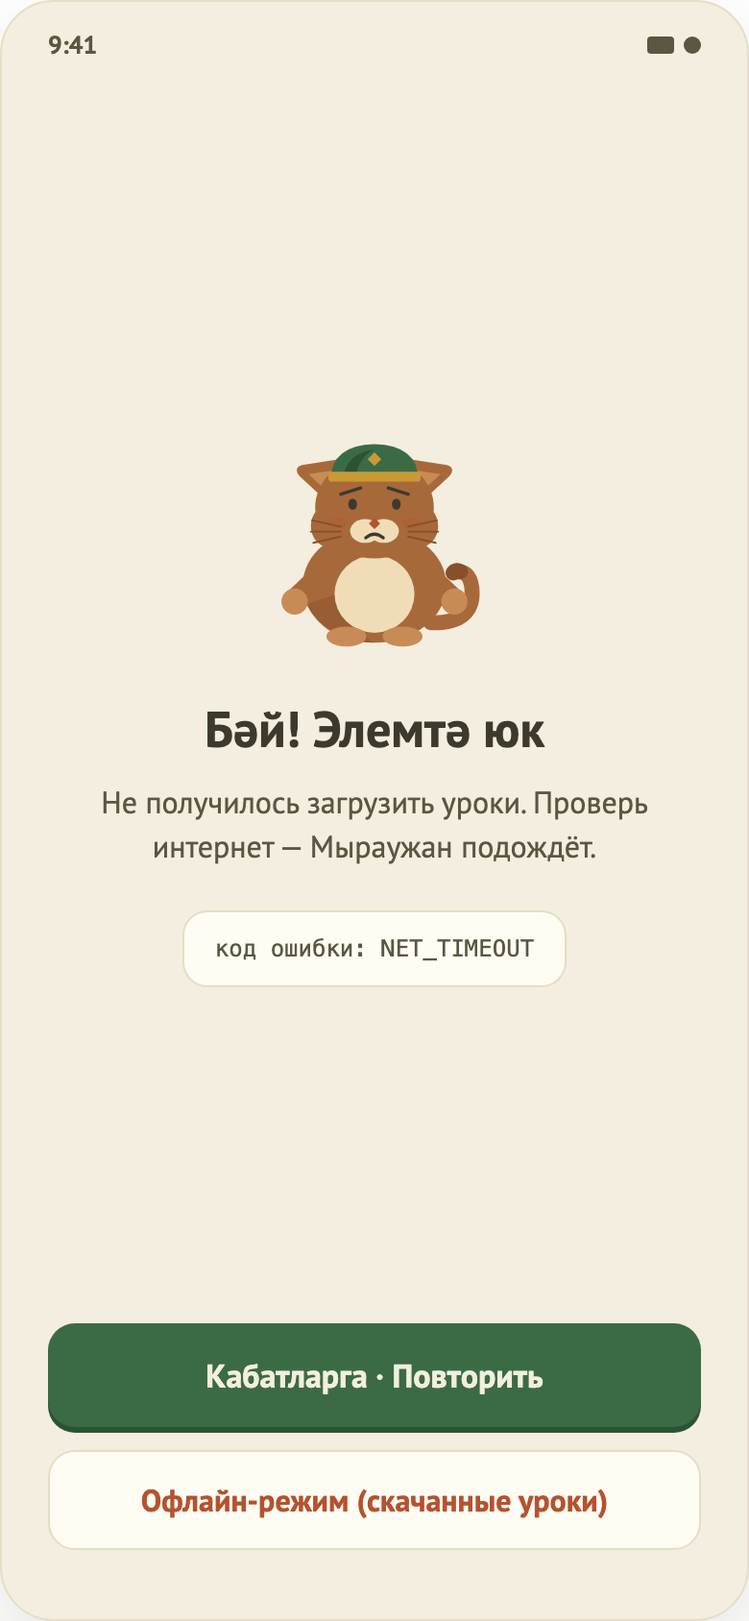
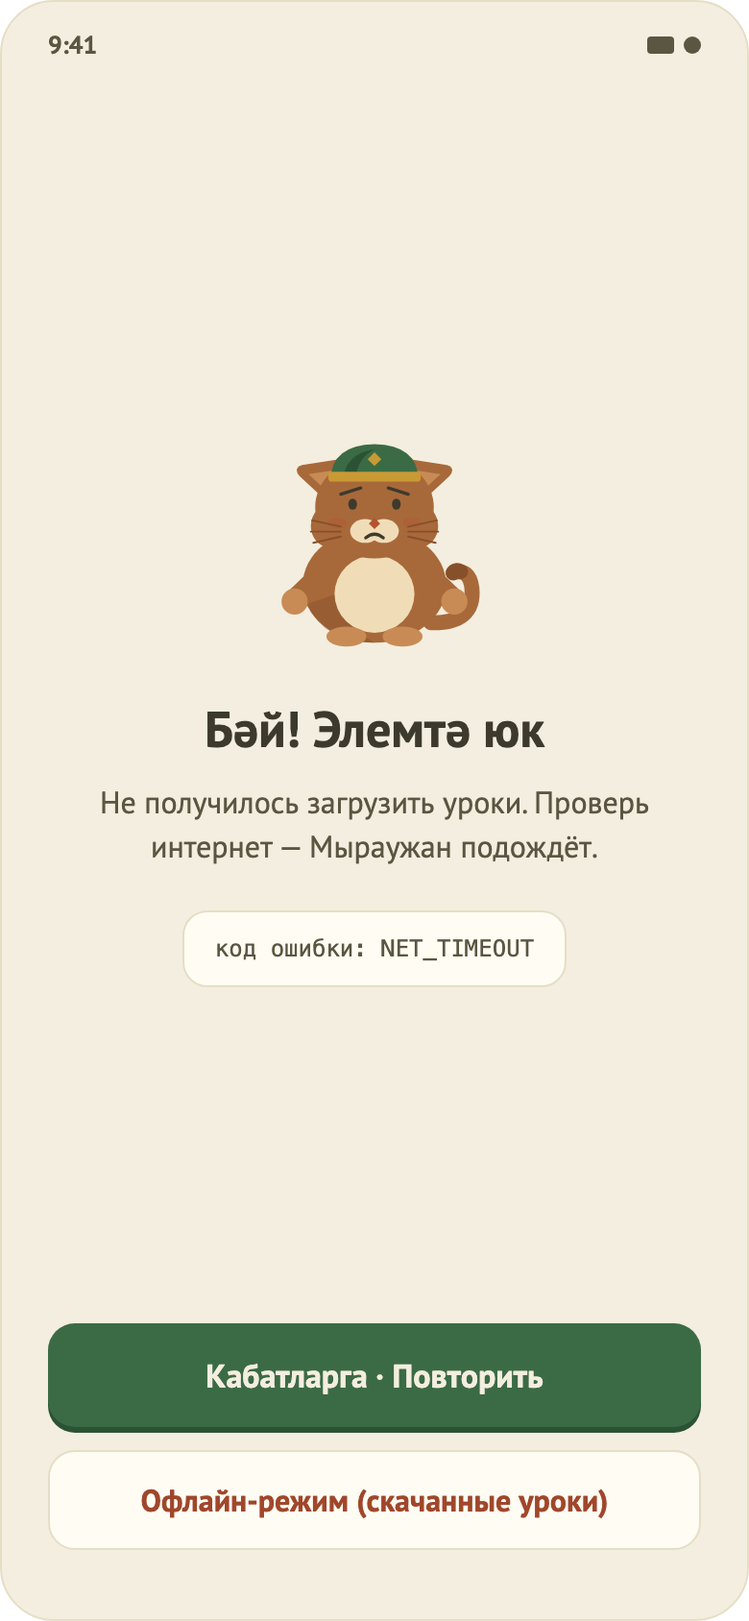
Fix text contrast in design: accentText, darker goldText, readable locked module

Changed region(s): [[0.1538, 0.4929, 0.3692, 0.5545], [0.5846, 0.4929, 0.8, 0.5237], [0.8308, 0.4929, 0.8615, 0.5237]]

diff --git a/design/Tatar App Screens.dc.html b/design/Tatar App Screens.dc.html
@@ -13,7 +13,7 @@
 <link href="https://fonts.googleapis.com/css2?family=PT+Sans:ital,wght@0,400;0,700;1,400&amp;display=swap" rel="stylesheet">
 <style>
   body { margin:0; background:#E7E0CC; }
-  a { color:#3B6B45; } a:hover { color:#B5522F; }
+  a { color:#3B6B45; } a:hover { color:#A0472B; }
   @keyframes tamyrPulse { 0%,100% { opacity:.35; transform:rotate(45deg) scale(.85); } 50% { opacity:1; transform:rotate(45deg) scale(1.1); } }
 </style>
 </helmet>
@@ -87,7 +87,7 @@
         </div>
         <div style="padding:0 24px 36px;display:flex;flex-direction:column;gap:12px">
           <div style="height:54px;border-radius:14px;background:#3B6B45;color:#F3EEDF;display:flex;align-items:center;justify-content:center;font-size:17px;font-weight:700;box-shadow:0 3px 0 #2C5234">Кабатларга · Повторить</div>
-          <div style="height:50px;border-radius:14px;background:#FFFCF3;border:1px solid #E5DEC6;display:flex;align-items:center;justify-content:center;font-size:16px;font-weight:700;color:#B5522F">Офлайн-режим (скачанные уроки)</div>
+          <div style="height:50px;border-radius:14px;background:#FFFCF3;border:1px solid #E5DEC6;display:flex;align-items:center;justify-content:center;font-size:16px;font-weight:700;color:#A0472B">Офлайн-режим (скачанные уроки)</div>
         </div>
       </div>
     </div>
@@ -117,7 +117,7 @@
             </div>
             <div style="display:flex;align-items:center;gap:8px;font-size:14px;color:#5A5642">
               <div style="width:14px;height:14px;border-radius:50%;border:2px solid #B5522F;box-sizing:border-box;display:flex;align-items:center;justify-content:center"><div style="width:0;height:0;border-left:5px solid #B5522F;border-top:3px solid transparent;border-bottom:3px solid transparent;margin-left:1px"></div></div>
-              <div style="font-weight:700;color:#B5522F">Помедленнее</div>
+              <div style="font-weight:700;color:#A0472B">Помедленнее</div>
             </div>
           </div>
         </div>
@@ -143,7 +143,7 @@
           
         </div>
         <div style="padding:24px 24px 0;display:flex;flex-direction:column;gap:16px">
-          <div style="align-self:flex-start;background:#F4DFD4;color:#B5522F;font-size:12px;font-weight:700;text-transform:uppercase;letter-spacing:.06em;border-radius:8px;padding:5px 10px">Җөмлә төзе · сборка</div>
+          <div style="align-self:flex-start;background:#F4DFD4;color:#A0472B;font-size:12px;font-weight:700;text-transform:uppercase;letter-spacing:.06em;border-radius:8px;padding:5px 10px">Җөмлә төзе · сборка</div>
           <div style="font-size:22px;font-weight:700">Переведи предложение</div>
           <div style="background:#FFFCF3;border:1px solid #E5DEC6;border-radius:16px;padding:18px;font-size:19px;font-weight:700">«Я иду в школу»</div>
           <div style="display:flex;flex-direction:column;gap:8px">
@@ -178,7 +178,7 @@
           
         </div>
         <div style="padding:24px 24px 0;display:flex;flex-direction:column;gap:16px">
-          <div style="align-self:flex-start;background:#EFE6C8;color:#8A6F1F;font-size:12px;font-weight:700;text-transform:uppercase;letter-spacing:.06em;border-radius:8px;padding:5px 10px">Яз · письмо</div>
+          <div style="align-self:flex-start;background:#EFE6C8;color:#7A6119;font-size:12px;font-weight:700;text-transform:uppercase;letter-spacing:.06em;border-radius:8px;padding:5px 10px">Яз · письмо</div>
           <div style="font-size:22px;font-weight:700">Напиши по-татарски</div>
           <div style="background:#FFFCF3;border:1px solid #E5DEC6;border-radius:16px;padding:18px;display:flex;align-items:center;gap:14px">
             <div style="width:40px;height:40px;border-radius:50%;background:#3B6B45;display:flex;align-items:center;justify-content:center;flex-shrink:0">
@@ -211,9 +211,9 @@
         <div style="padding:18px 24px 0;font-size:22px;font-weight:700">Уведомления</div>
         <div style="padding:22px 24px;display:flex;flex-direction:column;gap:18px">
           <div style="display:flex;flex-direction:column;gap:8px"><div style="font-size:14px;font-weight:700;color:#5A5642">Информация</div><div style="background:#EFE6C8;border:1px solid #C99A34;border-radius:13px;padding:12px 16px;display:flex;align-items:center;gap:12px;box-shadow:0 3px 0 #D9CFB2">
-            <div style="width:26px;height:26px;border-radius:50%;background:#C99A34;color:#FFFCF3;display:flex;align-items:center;justify-content:center;font-size:15px;font-weight:700;flex-shrink:0">i</div>
-            <div style="flex:1;font-size:14px;color:#8A6F1F;line-height:1.35;font-weight:700">Вход через Google и VK ID пока недоступен</div>
-            <div style="width:32px;height:32px;margin:-6px -8px -6px 0;display:flex;align-items:center;justify-content:center;font-size:16px;font-weight:700;color:#8A6F1F;flex-shrink:0">✕</div>
+            <div style="width:26px;height:26px;border-radius:50%;background:#C99A34;color:#3D3A2D;display:flex;align-items:center;justify-content:center;font-size:15px;font-weight:700;flex-shrink:0">i</div>
+            <div style="flex:1;font-size:14px;color:#7A6119;line-height:1.35;font-weight:700">Вход через Google и VK ID пока недоступен</div>
+            <div style="width:32px;height:32px;margin:-6px -8px -6px 0;display:flex;align-items:center;justify-content:center;font-size:16px;font-weight:700;color:#7A6119;flex-shrink:0">✕</div>
           </div></div>
           <div style="display:flex;flex-direction:column;gap:8px"><div style="font-size:14px;font-weight:700;color:#5A5642">Ошибка</div><div style="background:#F4DFD4;border:1px solid #DFB9A5;border-radius:13px;padding:12px 16px;display:flex;align-items:center;gap:12px;box-shadow:0 3px 0 #E0C9BC">
             <div style="width:26px;height:26px;border-radius:50%;background:#B5522F;color:#FFFCF3;display:flex;align-items:center;justify-content:center;font-size:15px;font-weight:700;flex-shrink:0">!</div>
@@ -282,7 +282,7 @@
         </div>
         <div style="padding:0 24px 36px;display:flex;flex-direction:column;gap:14px">
           <div style="height:54px;border-radius:14px;background:#3B6B45;color:#F3EEDF;display:flex;align-items:center;justify-content:center;font-size:17px;font-weight:700;box-shadow:0 3px 0 #2C5234">Башлыйбыз! · Начать</div>
-          <div style="text-align:center;font-size:15px;font-weight:700;color:#B5522F">У меня уже есть аккаунт</div>
+          <div style="text-align:center;font-size:15px;font-weight:700;color:#A0472B">У меня уже есть аккаунт</div>
         </div>
       </div>
     </div>
@@ -304,9 +304,9 @@
           </div>
           <div style="display:flex;flex-direction:column;gap:8px">
             <div style="font-size:14px;font-weight:700;color:#5A5642">Пароль</div>
-            <div style="height:52px;border-radius:13px;background:#FFFCF3;border:2px solid #3B6B45;display:flex;align-items:center;justify-content:space-between;padding:0 16px;font-size:16px"><div style="letter-spacing:3px">••••••••</div><div style="font-size:13px;font-weight:700;color:#B5522F">показать</div></div>
+            <div style="height:52px;border-radius:13px;background:#FFFCF3;border:2px solid #3B6B45;display:flex;align-items:center;justify-content:space-between;padding:0 16px;font-size:16px"><div style="letter-spacing:3px">••••••••</div><div style="font-size:13px;font-weight:700;color:#A0472B">показать</div></div>
           </div>
-          <div style="text-align:right;font-size:14px;font-weight:700;color:#B5522F;margin-top:-6px">Забыли пароль?</div>
+          <div style="text-align:right;font-size:14px;font-weight:700;color:#A0472B;margin-top:-6px">Забыли пароль?</div>
           <div style="height:54px;border-radius:14px;background:#3B6B45;color:#F3EEDF;display:flex;align-items:center;justify-content:center;font-size:17px;font-weight:700;box-shadow:0 3px 0 #2C5234">Керергә · Войти</div>
           <div style="display:flex;align-items:center;gap:12px;color:#5A5642;font-size:13px">
             <div style="flex:1;height:1px;background:#E5DEC6"></div>
@@ -336,9 +336,9 @@
         </div>
         <div style="padding:18px 24px 0;display:flex;flex-direction:column;gap:14px;overflow:hidden">
           <div style="background:#FFFCF3;border:1px solid #E5DEC6;border-radius:16px;padding:16px;display:flex;align-items:center;gap:16px">
-            <div style="width:52px;height:52px;border-radius:14px;background:#C99A34;display:flex;align-items:center;justify-content:center;flex-direction:column;color:#FFFCF3"><div style="font-size:20px;font-weight:700">{{ streak }}</div></div>
+            <div style="width:52px;height:52px;border-radius:14px;background:#C99A34;display:flex;align-items:center;justify-content:center;flex-direction:column;color:#3D3A2D"><div style="font-size:20px;font-weight:700">{{ streak }}</div></div>
             <div style="flex:1;display:flex;flex-direction:column;gap:6px">
-              <div style="display:flex;justify-content:space-between;align-items:baseline"><div style="font-size:15px;font-weight:700">{{ streak }} көн рәттән</div><div style="font-size:13px;font-weight:700;color:#C99A34">340 XP</div></div>
+              <div style="display:flex;justify-content:space-between;align-items:baseline"><div style="font-size:15px;font-weight:700">{{ streak }} көн рәттән</div><div style="font-size:13px;font-weight:700;color:#7A6119">340 XP</div></div>
               <div style="height:8px;border-radius:4px;background:#EAE3CB;overflow:hidden"><div style="width:68%;height:100%;background:#C99A34;border-radius:4px"></div></div>
               <div style="font-size:12px;color:#5A5642">До уровня 7 — ещё 60 XP</div>
             </div>
@@ -354,7 +354,7 @@
           </div>
           <div style="display:flex;justify-content:space-between;align-items:baseline;margin-top:2px">
             <div style="font-size:17px;font-weight:700">Модули</div>
-            <div style="font-size:14px;font-weight:700;color:#B5522F">Все</div>
+            <div style="font-size:14px;font-weight:700;color:#A0472B">Все</div>
           </div>
           <div style="display:grid;grid-template-columns:1fr 1fr;gap:12px">
             <div style="background:#FFFCF3;border:1px solid #E5DEC6;border-radius:14px;padding:14px;display:flex;flex-direction:column;gap:8px">
@@ -379,14 +379,14 @@
               <div style="font-size:15px;font-weight:700">Саннар · Числа</div>
               <div style="height:6px;border-radius:3px;background:#EAE3CB"><div style="width:10%;height:100%;background:#3B6B45;border-radius:3px"></div></div>
             </div>
-            <div style="background:#FFFCF3;border:1px solid #E5DEC6;border-radius:14px;padding:14px;display:flex;flex-direction:column;gap:8px;opacity:.55">
-              <div style="width:34px;height:34px;border-radius:10px;background:#EAE3CB;display:flex;align-items:center;justify-content:center">
+            <div style="background:#EAE3CB;border:1px solid #E5DEC6;border-radius:14px;padding:14px;display:flex;flex-direction:column;gap:8px">
+              <div style="width:34px;height:34px;border-radius:10px;background:#F3EEDF;display:flex;align-items:center;justify-content:center">
                 <div style="position:relative;width:16px;height:19px">
                   <div style="position:absolute;top:0;left:3px;width:10px;height:9px;border:2px solid #5A5642;border-bottom:none;border-radius:6px 6px 0 0;box-sizing:border-box"></div>
                   <div style="position:absolute;bottom:0;left:0;width:16px;height:12px;background:#5A5642;border-radius:4px"></div>
                 </div>
               </div>
-              <div style="font-size:15px;font-weight:700">Табигать</div>
+              <div style="font-size:15px;font-weight:700;color:#5A5642">Табигать</div>
               <div style="font-size:12px;color:#5A5642">Откроется после «Еды»</div>
             </div>
           </div>
@@ -473,7 +473,7 @@
           
         </div>
         <div style="padding:24px 24px 0;display:flex;flex-direction:column;gap:16px">
-          <div style="align-self:flex-start;background:#F4DFD4;color:#B5522F;font-size:12px;font-weight:700;text-transform:uppercase;letter-spacing:.06em;border-radius:8px;padding:5px 10px">Яңа сүз · новое слово</div>
+          <div style="align-self:flex-start;background:#F4DFD4;color:#A0472B;font-size:12px;font-weight:700;text-transform:uppercase;letter-spacing:.06em;border-radius:8px;padding:5px 10px">Яңа сүз · новое слово</div>
           <div style="font-size:22px;font-weight:700">Как переводится это слово?</div>
           <div style="background:#FFFCF3;border:1px solid #E5DEC6;border-radius:16px;padding:22px;display:flex;align-items:center;gap:16px">
             <div style="width:46px;height:46px;border-radius:50%;background:#3B6B45;display:flex;align-items:center;justify-content:center;flex-shrink:0">
@@ -510,7 +510,7 @@
             <div style="background:#F4DFD4;border-top:1px solid #DFB9A5;padding:20px 24px 36px;display:flex;flex-direction:column;gap:14px">
               <div style="display:flex;align-items:center;gap:12px">
                 <div style="width:34px;height:34px;border-radius:50%;background:#B5522F;color:#FFFCF3;display:flex;align-items:center;justify-content:center;font-size:16px;font-weight:700">✕</div>
-                <div style="display:flex;flex-direction:column"><div style="font-size:18px;font-weight:700;color:#B5522F">Ялгыш · Ошибка</div><div style="font-size:13px;color:#8A4326">Правильный ответ: книга</div></div>
+                <div style="display:flex;flex-direction:column"><div style="font-size:18px;font-weight:700;color:#A0472B">Ялгыш · Ошибка</div><div style="font-size:13px;color:#8A4326">Правильный ответ: книга</div></div>
               </div>
               <div style="height:54px;border-radius:14px;background:#B5522F;color:#FFFCF3;display:flex;align-items:center;justify-content:center;font-size:17px;font-weight:700;box-shadow:0 3px 0 #8A4326">Аңладым · Понятно</div>
             </div>
@@ -532,20 +532,20 @@
           </div>
           <div style="width:100%;display:grid;grid-template-columns:1fr 1fr 1fr;gap:12px">
             <div style="background:#FFFCF3;border:1px solid #E5DEC6;border-radius:14px;padding:16px 8px;display:flex;flex-direction:column;gap:4px;align-items:center">
-              <div style="font-size:12px;font-weight:700;color:#C99A34;text-transform:uppercase;letter-spacing:.05em">XP</div>
-              <div style="font-size:24px;font-weight:700;color:#C99A34">+{{ xp }}</div>
+              <div style="font-size:12px;font-weight:700;color:#7A6119;text-transform:uppercase;letter-spacing:.05em">XP</div>
+              <div style="font-size:24px;font-weight:700;color:#7A6119">+{{ xp }}</div>
             </div>
             <div style="background:#FFFCF3;border:1px solid #E5DEC6;border-radius:14px;padding:16px 8px;display:flex;flex-direction:column;gap:4px;align-items:center">
               <div style="font-size:12px;font-weight:700;color:#3B6B45;text-transform:uppercase;letter-spacing:.05em">Точность</div>
               <div style="font-size:24px;font-weight:700;color:#3B6B45">90%</div>
             </div>
             <div style="background:#FFFCF3;border:1px solid #E5DEC6;border-radius:14px;padding:16px 8px;display:flex;flex-direction:column;gap:4px;align-items:center">
-              <div style="font-size:12px;font-weight:700;color:#B5522F;text-transform:uppercase;letter-spacing:.05em">Время</div>
-              <div style="font-size:24px;font-weight:700;color:#B5522F">4:32</div>
+              <div style="font-size:12px;font-weight:700;color:#5A5642;text-transform:uppercase;letter-spacing:.05em">Время</div>
+              <div style="font-size:24px;font-weight:700;color:#3D3A2D">4:32</div>
             </div>
           </div>
           <div style="width:100%;background:#FFFCF3;border:1px solid #E5DEC6;border-radius:16px;padding:18px;display:flex;align-items:center;gap:16px;text-align:left">
-            <div style="width:48px;height:48px;border-radius:14px;background:#C99A34;color:#FFFCF3;display:flex;align-items:center;justify-content:center;font-size:19px;font-weight:700;flex-shrink:0">{{ streakNext }}</div>
+            <div style="width:48px;height:48px;border-radius:14px;background:#C99A34;color:#3D3A2D;display:flex;align-items:center;justify-content:center;font-size:19px;font-weight:700;flex-shrink:0">{{ streakNext }}</div>
             <div style="display:flex;flex-direction:column;gap:2px">
               <div style="font-size:16px;font-weight:700">Стрик продлён: {{ streakNext }} көн!</div>
               <div style="font-size:13px;color:#5A5642">Возвращайся завтра, чтобы не потерять серию</div>
@@ -554,7 +554,7 @@
         </div>
         <div style="padding:0 24px 36px;display:flex;flex-direction:column;gap:12px">
           <div style="height:54px;border-radius:14px;background:#3B6B45;color:#F3EEDF;display:flex;align-items:center;justify-content:center;font-size:17px;font-weight:700;box-shadow:0 3px 0 #2C5234">Дәвам итәргә · Продолжить</div>
-          <div style="height:50px;border-radius:14px;background:#FFFCF3;border:1px solid #E5DEC6;display:flex;align-items:center;justify-content:center;font-size:16px;font-weight:700;color:#B5522F">Кабатларга · Повторить ошибки (1)</div>
+          <div style="height:50px;border-radius:14px;background:#FFFCF3;border:1px solid #E5DEC6;display:flex;align-items:center;justify-content:center;font-size:16px;font-weight:700;color:#A0472B">Кабатларга · Повторить ошибки (1)</div>
         </div>
       </div>
     </div>

diff --git a/design/render_screens.py b/design/render_screens.py
@@ -1,0 +1,105 @@
+#!/usr/bin/env python3
+"""Рендерит эталонные PNG экранов из design/Tatar App Screens.dc.html в design/screens/NN.png.
+
+Нужны только Python 3 и Google Chrome (путь можно задать переменной CHROME). Playwright не нужен.
+Запуск из корня проекта:
+    python3 design/render_screens.py            # все экраны
+    python3 design/render_screens.py 03 05 06   # только указанные номера
+
+Как это работает: макет на шаблонах (sc-if, {{ }}) отдаётся по локальному HTTP, Chrome отрисовывает страницу,
+скрипт забирает готовую разметку каждого экрана (390x844) и снимает её отдельно в масштабе x2 на прозрачном фоне.
+"""
+import html
+import json
+import os
+import re
+import shutil
+import subprocess
+import sys
+import tempfile
+import threading
+from functools import partial
+from http.server import SimpleHTTPRequestHandler, ThreadingHTTPServer
+
+ROOT = os.path.dirname(os.path.abspath(__file__))
+SRC = os.path.join(ROOT, "Tatar App Screens.dc.html")
+OUT = os.path.join(ROOT, "screens")
+CHROME = os.environ.get("CHROME", "/Applications/Google Chrome.app/Contents/MacOS/Google Chrome")
+
+# Забираем разметку кадра каждого экрана после того, как шаблоны отработали.
+COLLECT = """<pre id="rects" style="position:absolute;left:0;top:0;opacity:0"></pre>
+<script>
+window.addEventListener('load', function () { setTimeout(function () {
+  var out = [];
+  document.querySelectorAll('[data-screen-label]').forEach(function (el) {
+    var frame = null;
+    el.querySelectorAll('div').forEach(function (d) {
+      var r = d.getBoundingClientRect();
+      if (!frame && Math.round(r.width) === 390 && Math.round(r.height) === 844) frame = d;
+    });
+    if (frame) out.push({label: el.getAttribute('data-screen-label'), html: frame.outerHTML});
+  });
+  document.getElementById('rects').textContent = 'RECTS' + JSON.stringify(out) + 'ENDRECTS';
+}, 1500); });
+</script>
+</body>"""
+
+PAGE_HEAD = (
+    '<!DOCTYPE html><html><head><meta charset="utf-8"><base href="http://127.0.0.1:{port}/">'
+    '<link href="https://fonts.googleapis.com/css2?family=PT+Sans:ital,wght@0,400;0,700;1,400&display=swap" rel="stylesheet">'
+    '<style>html,body{{margin:0;background:transparent;font-family:"PT Sans",sans-serif;color:#3D3A2D}}'
+    "@keyframes tamyrPulse{{0%,100%{{opacity:.35}}50%{{opacity:1}}}}</style></head><body>"
+)
+
+
+def chrome(args):
+    return subprocess.run([CHROME, "--headless", "--disable-gpu", "--hide-scrollbars", *args],
+                          capture_output=True, text=True, check=False)
+
+
+def main():
+    wanted = set(sys.argv[1:])
+    work = tempfile.mkdtemp(prefix="tamyr-render-")
+    try:
+        shutil.copy(os.path.join(ROOT, "support.js"), work)
+        shutil.copytree(os.path.join(ROOT, "icons"), os.path.join(work, "icons"))
+        page = open(SRC, encoding="utf-8").read().replace("</body>", COLLECT, 1)
+        page = page.replace("</head>", "<style>html,body{background:transparent !important}</style></head>", 1)
+        open(os.path.join(work, "page.html"), "w", encoding="utf-8").write(page)
+
+        class QuietHandler(SimpleHTTPRequestHandler):
+            def log_message(self, *args):
+                pass
+
+        handler = partial(QuietHandler, directory=work)
+        server = ThreadingHTTPServer(("127.0.0.1", 0), handler)
+        port = server.server_address[1]
+        threading.Thread(target=server.serve_forever, daemon=True).start()
+
+        dom = chrome(["--virtual-time-budget=10000", "--window-size=3400,2300", "--dump-dom",
+                      f"http://127.0.0.1:{port}/page.html"]).stdout
+        match = re.search(r'<pre id="rects"[^>]*>RECTS(.*?)ENDRECTS</pre>', dom, re.S)
+        if not match:
+            sys.exit("Не удалось получить разметку экранов: страница не отрисовалась.")
+        screens = json.loads(html.unescape(match.group(1)))
+
+        for screen in screens:
+            number = screen["label"][:2]
+            if wanted and number not in wanted:
+                continue
+            frame = re.sub(r"box-shadow:\s*(0 14px 36px rgba\(61, ?58, ?45, ?0?\.14\)|rgba\(61, 58, 45, 0\.14\) 0px 14px 36px( 0px)?);?",
+                           "", screen["html"])
+            name = f"s{number}.html"
+            open(os.path.join(work, name), "w", encoding="utf-8").write(
+                PAGE_HEAD.format(port=port) + frame + "</body></html>")
+            target = os.path.join(OUT, f"{number}.png")
+            chrome(["--default-background-color=00000000", "--force-device-scale-factor=2", "--window-size=390,844",
+                    "--virtual-time-budget=6000", f"--screenshot={target}", f"http://127.0.0.1:{port}/{name}"])
+            print("OK" if os.path.exists(target) else "НЕТ", target)
+        server.shutdown()
+    finally:
+        shutil.rmtree(work, ignore_errors=True)
+
+
+if __name__ == "__main__":
+    main()

diff --git a/.claude/skills/design-extend/SKILL.md b/.claude/skills/design-extend/SKILL.md
@@ -31,7 +31,8 @@ description: Как рисовать новые экраны и элементы
 | Текст основной / вторичный / выключенный | `#3D3A2D` / `#5A5642` / `#A39D85` |
 | Primary (зелёный) + тень + текст на нём | `#3B6B45` + `#2C5234` + `#F3EEDF` |
 | Accent (терракота) + тень + мягкая тень | `#B5522F` + `#8A4326` + `#E0C9BC` |
-| Золото / текст по золоту / контейнер | `#C99A34` / `#8A6F1F` / `#EFE6C8` |
+| Терракота для мелкого текста и ссылок (`accentText`) | `#A0472B` (контраст >= 4,5:1 на фоне, карточке и розовом контейнере) |
+| Золото / текст по золоту (`goldText`) / контейнер | `#C99A34` / `#7A6119` / `#EFE6C8` |
 | Успех (контейнер, граница) | `#D9EFD8`, `#A9CBA8` |
 | Ошибка (контейнер, граница) | `#F4DFD4`, `#DFB9A5` |
 
@@ -45,6 +46,12 @@ description: Как рисовать новые экраны и элементы
 - Шрифт PT Sans: заголовок экрана `22/700`, большой заголовок `26/700`, кнопка `17/700`, подпись поля `14/700`, основной `15–16`, подсказка `13–14`.
 - **«3D»-тень**: у нажимаемых элементов есть сплошная нижняя тень без размытия: `box-shadow:0 3px 0 <тёмный оттенок цвета элемента>`. Для светлых карточек это `0 3px 0 #E5DEC6`. Размытая тень (`0 14px 36px`) только у рамки экрана и всплывающих слоёв.
 - Акцентное состояние поля или варианта: рамка `2px` цвета primary (фокус) или accent (выбран/ошибка).
+
+## Контраст
+
+- Мелкий текст не светлее 4,5:1, крупный (от 18 px или 14 px жирного) не светлее 3:1, значки и границы смысла не светлее 3:1. Считай по WCAG, а не на глаз.
+- Золото `#C99A34` и терракота `#B5522F` как цвет **текста** на светлом фоне не используем: для текста есть `goldText` и `accentText`. Текст на золотой заливке тёмный (`textPrimary`), не белый.
+- Выбор (рамка primary) и ошибка (терракота плюс значок) различаются не только цветом.
 
 ## Язык и тон
 

diff --git a/CLAUDE.md b/CLAUDE.md
@@ -29,7 +29,7 @@ Koin (DI), Navigation 3 (JetBrains, `navigation3-ui`; runtime comes transitively
 ## Design system (`core/designsystem`)
 - Access tokens via `TamyrTheme.colors/typography/shapes/spacing`; sizes of fixed components in `TamyrSizes`. Wrap UI in `TamyrTheme`.
 - Components: `TamyrButton` (`loading` -> `TamyrSpinner`; design screen 13), `TamyrCard`, `TamyrProgressBar`, `TamyrTag`, `Diamond/BrandDiamonds/PulsingDiamonds`, `TamyrToast/TamyrToastHost` (Info/Error/Success, 5 s, close button, swipe up; design screen 12), `LoadingState`, `ErrorState`, `LoadStateContent` over `core/common/LoadState`.
-- Font: PT Sans in `composeResources/font` (OFL license: `design/OFL-PTSans.txt`). Design PNGs: `design/screens/NN.png` (rendered with Playwright + system Chrome).
+- Font: PT Sans in `composeResources/font` (OFL license: `design/OFL-PTSans.txt`). Design PNGs: `design/screens/NN.png`, re-render with `python3 design/render_screens.py [NN ...]` (system Chrome, no Playwright).
 - Debug UI kit: `ShowcaseScreen`, reached via the "UI kit" button (shown only for debug builds).
 - Mascot Myrauzhan: `TamyrMascot(MascotPose, size)` over vector drawables `mascot_*.xml` (sources: `design/mascot/*.svg`, brief: `design/mascot-prompt.md`). Used in onboarding, error state, answer panel, result, matching hint. Not wired yet: Loading (Searching), Tired (for a below-threshold result), Sleeping, HeadIcon; the cap/diamond ornament needs native/cultural review.
 
